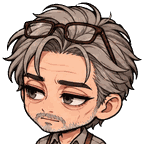
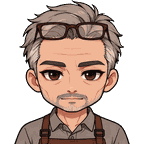
Portraits de dialogue d'Ishara en tenue de course, de Rémi et de Félix

diff --git a/dialogue.js b/dialogue.js
@@ -3,7 +3,7 @@
 // Affichage des répliques : une ligne « Nom : « texte » » devient une bulle avec le nom et un visage. La voix de Tiamat est une voix
 // intérieure : bulle violette en italique, avec la pierre bleue, jamais un visage. Les inconnus ont une silhouette. Le récit n'a ni nom ni visage.
 const portraitArt = {};
-const portraitNames = ['yarden-neutre', 'yarden-souriante', 'yarden-agacee', 'yarden-surprise', 'ishara-neutre', 'ishara-sourire', 'ishara-inquiete', 'inconnu-1-neutre', 'inconnu-1-menacant', 'inconnu-2-neutre', 'inconnu-2-menacant', 'remi-neutre', 'felix-neutre'];
+const portraitNames = ['yarden-neutre', 'yarden-souriante', 'yarden-agacee', 'yarden-surprise', 'ishara-neutre', 'ishara-sourire', 'ishara-inquiete', 'inconnu-1-neutre', 'inconnu-1-menacant', 'inconnu-2-neutre', 'inconnu-2-menacant', 'remi-neutre', 'felix-neutre', 'ishara-course-neutre'];
 const portraitBase = { 'Yarden': 'yarden', 'Ishara': 'ishara', 'Inconnue': 'ishara', 'Inconnu 1': 'inconnu-1', 'Inconnu 2': 'inconnu-2', 'Rémi': 'remi', 'Félix': 'felix' };
 // « Nom[expression] : « texte » » ; l'expression est facultative (neutre par défaut).
 const speakerPattern = /^(Yarden|Ishara|Tiamat|Inconnue|Inconnu 1|Inconnu 2|Rémi|Félix)(?:\[([a-z]+)\])?(?: \(voix intérieure\))? : « ?([\s\S]*?) ?»$/;
@@ -14,7 +14,7 @@ function loadPortraits() {
     const image = new Image();
     image.onload = () => { portraitArt[name] = image; };
     image.onerror = () => { portraitArt[name] = null; };
-    image.src = `assets/portraits/${name}.png?v=49`;
+    image.src = `assets/portraits/${name}.png?v=57`;
   }
 }
 
@@ -30,7 +30,9 @@ function drawPortrait(who, expression) {
   const size = canvas.width;
   pen.clearRect(0, 0, size, size);
   const base = portraitBase[who];
-  const image = base && (portraitArt[`${base}-${expression}`] || portraitArt[`${base}-neutre`]);
+  // En tenue de course, Ishara a son propre visage (neutre seulement) ; les autres expressions gardent l'ancien dessin.
+  const course = base === 'ishara' && isharaOutfit === 'course' && portraitArt['ishara-course-neutre'];
+  const image = course || (base && (portraitArt[`${base}-${expression}`] || portraitArt[`${base}-neutre`]));
   if (image) {
     pen.fillStyle = '#2b3347'; pen.fillRect(0, 0, size, size);
     pen.drawImage(image, 0, 0, size, size);

diff --git a/index.html b/index.html
@@ -181,7 +181,7 @@
   <script src="metro.js?v=50" defer></script>
   <script src="night.js?v=54" defer></script>
   <script src="mirror.js?v=53" defer></script>
-  <script src="dialogue.js?v=56" defer></script>
+  <script src="dialogue.js?v=57" defer></script>
   <script src="levelup.js?v=50" defer></script>
   <script src="stats.js?v=51" defer></script>
   <script src="bag.js?v=56" defer></script>

diff --git a/docs/art/outils/convertir-packs.py b/docs/art/outils/convertir-packs.py
@@ -107,16 +107,19 @@ def export_chapter2b(art):
         rgba = key(art + 'ch2b/' + name.replace('remi-comptoir', 'remi-comptoir').replace('felix-bureau', 'felix-bureau') + '.webp')
         cells = alpha_cells(rgba, [(c * 500, 0, (c + 1) * 500, 667) for c in range(4)], 1)
         place(cells, 118, cell_w, 124, (cell_w // 2, 120), 'assets/npcs/' + ('remi' if name.startswith('remi') else 'felix') + '/' + name + '.png')
-    lineup = key(art + 'ch2b/lineup-ishara-remi-felix.webp')
-    for name, (x0, x1) in [('remi', (790, 1160)), ('felix', (1420, 1790))]:
-        part = lineup[0:340, x0:x1].copy()
+    busts = key(art + 'ch2b/portraits-ishara-remi-felix.webp')
+    for name, (x0, x1) in [('ishara-course', (0, 667)), ('remi', (667, 1334)), ('felix', (1334, 2000))]:
+        part = busts[:, x0:x1].copy()
         keep = largest(part[..., 3] > 24)
         part[..., 3] = np.where(keep, part[..., 3], 0)
         ys, xs = np.nonzero(part[..., 3] > 24)
-        side = int(xs.max() - xs.min()) + 12
-        left = max(0, int(xs.min()) - 6)
-        top = max(0, int(ys.min()) - 6)
-        square = Image.fromarray(part[top:top + side, left:left + side], 'RGBA').resize((144, 144), Image.LANCZOS)
+        side = max(int(xs.max() - xs.min()), int(ys.max() - ys.min())) + 1
+        left = max(0, min(part.shape[1] - side, int(xs.min()) - (side - int(xs.max() - xs.min())) // 2))
+        top = int(ys.min())
+        crop = np.zeros((side, side, 4), np.uint8)
+        piece = part[top:top + side, left:left + side]
+        crop[:piece.shape[0], :piece.shape[1]] = piece
+        square = Image.fromarray(crop, 'RGBA').resize((144, 144), Image.LANCZOS)
         arr = np.asarray(square).copy()
         arr[..., 3] = np.where(arr[..., 3] <= 24, 0, arr[..., 3])
         Image.fromarray(arr, 'RGBA').quantize(colors=96, method=Image.FASTOCTREE, dither=Image.NONE).save('assets/portraits/' + name + '-neutre.png', optimize=True)

diff --git a/PROJECT.md b/PROJECT.md
@@ -197,7 +197,7 @@ La zone extérieure vient en dernier et en deux temps (structure, puis contenu) 
 | 16s | implémentée | Au réveil, Tiamat dit que Yarden (Jordan) régnait sur un donjon de 182 étages et que les divinités l'ont voté (section 22) ; aucune mort montrée, ancien niveau jamais chiffré. Trente-six scénarios passent. |
 | 16t | implémentée, à relire et à valider sur Android | Suite du chapitre 2 d'après le résumé de Jordan (section 26), avec l'ordre corrigé : arrivée et thé, puis la douche et le miroir **le soir même**, puis le soutien-gorge (dialogue seul, rien de montré : « problème de géométrie angulaire », « Demain matin, on voit »), puis la première nuit sur le parquet (lit trop mou, « Pathétique. » / « Ergonomique. », agents divins, tatouages qui luisent, coût d'invocation zéro), puis le matin (café, courbatures). Nouveaux plans : nuit sombre et lueur des tatouages (`night.js`). Points de passage « Chez Ishara, le soir » (après le soutien-gorge). Répliques à valider (le résumé donne le sens, pas les mots) : tout sauf « problème de géométrie angulaire », « Demain matin, on voit », « Pathétique. », « Ergonomique. », « Plusieurs organisations », « Coût d'invocation : zéro ». Trente-sept scénarios passent. Scripts `?v=54`. À venir : le premier run en Abysse, le comptoir de Rémi, le 4B. |
 | 16u | implémentée, à relire et à valider sur Android | Chapitre 2, lendemain matin (sections 27 à 29) : impasse derrière le pressing, run en Abysse (sept créatures niveaux 15 à 19, le troisième saute, le septième fuit vers un couloir sans issue, aucun XP, Ishara suit à trois mètres et ne combat pas), rue Marterey, comptoir de Rémi (280 crédits), M2 vers Sous-gare, cour, escalier du 4B, Félix. Nouveaux fichiers `chapitre2b.js` et `render-ch2b.js`. Trente-huit scénarios passent. Scripts `?v=55`. |
-| 16v | implémentée, à relire et à valider sur Android | Réponses de Jordan sur le chapitre 2b. Le partage est canon : Rémi paie 560, Ishara donne 280 à Yarden. **Sac à dos et crédits** (`bag.js`) : pastille de crédits et bouton « Sac » dans l'en-tête dès qu'il y a du butin ou de l'argent ; chaque gobelin du run laisse un butin (quatre fragments niveaux 15, 17, 19 « coupe propre » et 16, deux bourses, le dernier gobelin fuit sans rien laisser), annoncé par une bulle « + Fragment cristallin · niv. 19 » ; le sac est vidé à la vente chez Rémi. **Faux scellée** après le premier donjon : dans la ruelle (dès l'araignée vaincue), les boutons de coup affichent « Scellée » et ne font rien ; elle se libère pendant la première nuit, quand les tatouages luisent (le déblocage ancre le canon). **Ishara** change de tenue au dimanche matin (pack de course : jean sombre, bottes, blouson, sac à dos, queue haute) et la garde ensuite ; l'ancienne robe reste pour la soirée. **Rémi** (sprite à la caisse, quatre cases) et **Félix** (sprite au bureau, prêt pour le chapitre 3), avec leurs portraits de dialogue. Lumière du run : mélange vert-ocre. Coup au flanc, 70 % de mana et recul d'Ishara : abandonnés. Trente-huit scénarios passent. Scripts `?v=56`. |
+| 16v | implémentée, à relire et à valider sur Android | Réponses de Jordan sur le chapitre 2b. Le partage est canon : Rémi paie 560, Ishara donne 280 à Yarden. **Sac à dos et crédits** (`bag.js`) : pastille de crédits et bouton « Sac » dans l'en-tête dès qu'il y a du butin ou de l'argent ; chaque gobelin du run laisse un butin (quatre fragments niveaux 15, 17, 19 « coupe propre » et 16, deux bourses, le dernier gobelin fuit sans rien laisser), annoncé par une bulle « + Fragment cristallin · niv. 19 » ; le sac est vidé à la vente chez Rémi. **Faux scellée** après le premier donjon : dans la ruelle (dès l'araignée vaincue), les boutons de coup affichent « Scellée » et ne font rien ; elle se libère pendant la première nuit, quand les tatouages luisent (le déblocage ancre le canon). **Ishara** change de tenue au dimanche matin (pack de course : jean sombre, bottes, blouson, sac à dos, queue haute) et la garde ensuite ; l'ancienne robe reste pour la soirée. **Rémi** (sprite à la caisse, quatre cases) et **Félix** (sprite au bureau, prêt pour le chapitre 3), avec leurs portraits de dialogue. Lumière du run : mélange vert-ocre. Coup au flanc, 70 % de mana et recul d'Ishara : abandonnés. Trente-huit scénarios passent. Scripts `?v=56`. Portraits de dialogue d'Ishara (tenue de course), de Rémi et de Félix : planche de bustes de Jordan, découpée par `convertir-packs.py` (expression neutre seulement ; les autres expressions d'Ishara gardent l'ancien dessin). |
 | 17 | à lancer | Bilan de la phase 2 : fluidité mesurée sur téléphone, poids des images, décision sur Godot. Soumis à validation de Jordan. |
 
 ## 10. Suite — antre de l’araignée et réveil dans la ruelle
